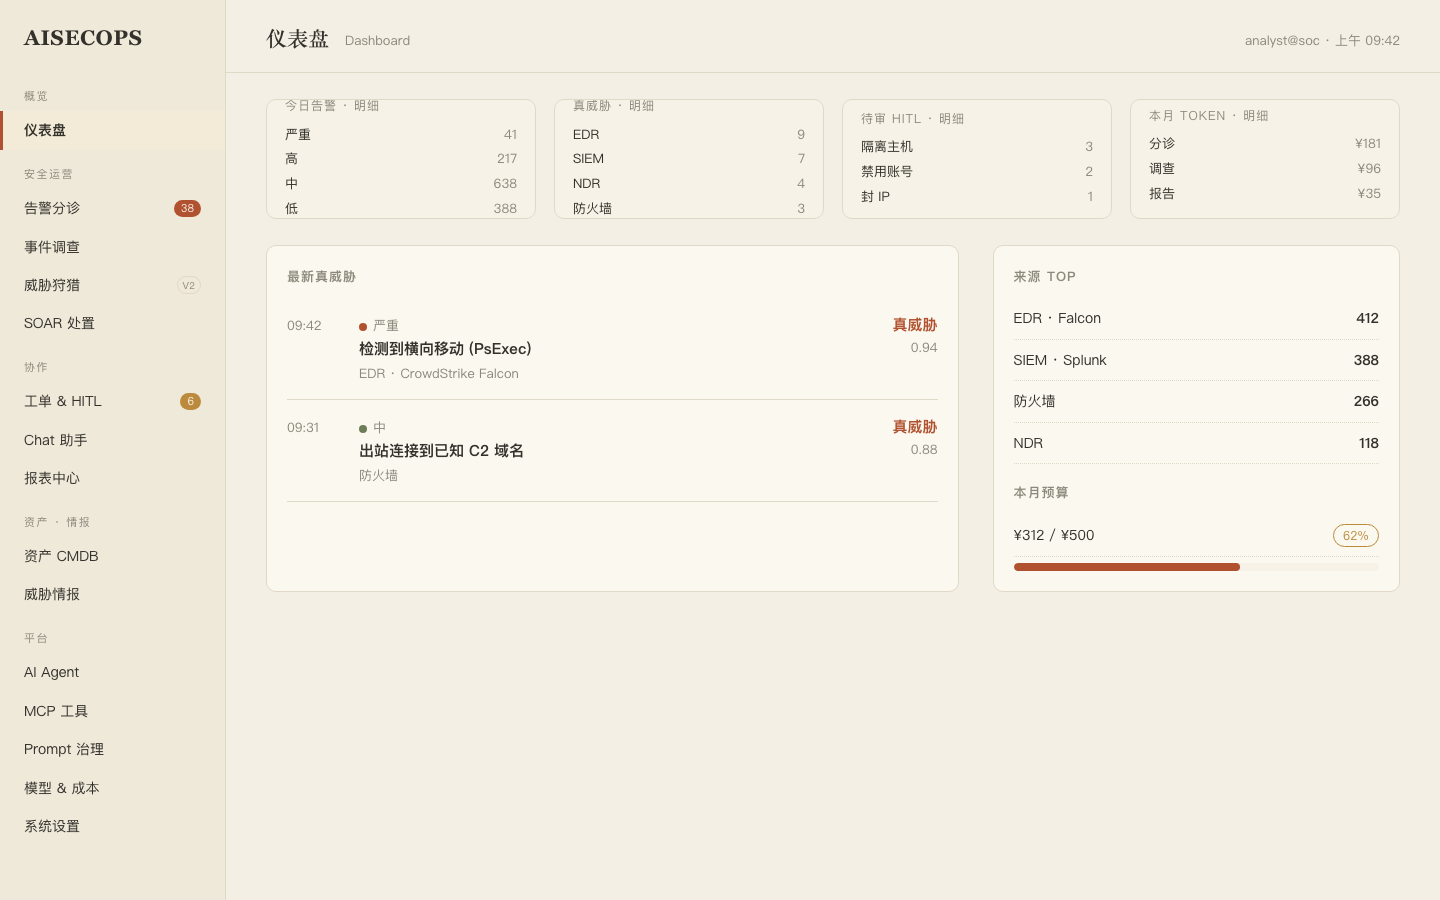
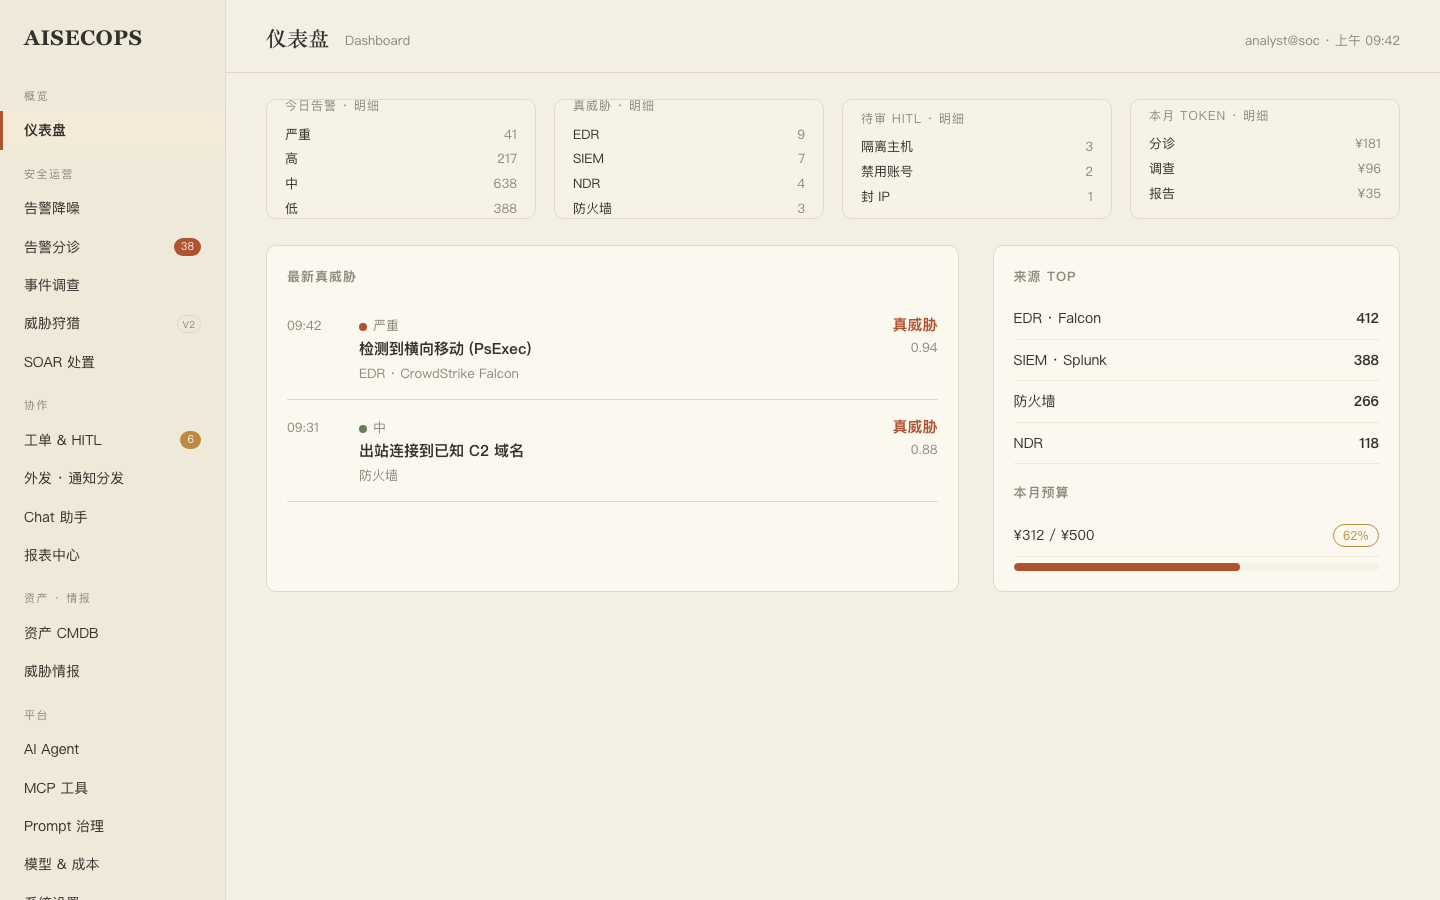
docs: 翻牌改悬停触发 + 补一组克制特效
- 翻牌卡改纯 CSS :hover 触发(移上翻面/移走自动翻回),非点击
- 新增特效: 数字滚动计数 / 进度条生长 / 列表卡片错峰淡入 /
  严重告警呼吸点(仅最高危) / 卡片悬停微抬 / 主按钮悬停柔光
- 同步更新设计规范 §3 动效规范,守住"摆脱 AI 味"(无弹跳/霓虹)

diff --git a/docs/design/mockups/5-calm-paper-app.html b/docs/design/mockups/5-calm-paper-app.html
@@ -26,9 +26,9 @@
   @keyframes fadeUp{from{opacity:0;transform:translateY(10px)}to{opacity:1;transform:none}}
   /* flip stat cards */
   .stats{display:grid;grid-template-columns:repeat(4,1fr);gap:18px;margin-bottom:26px}
-  .flip{perspective:1200px;height:120px;cursor:pointer}
+  .flip{perspective:1200px;height:120px}
   .flip .inner{position:relative;width:100%;height:100%;transition:transform .6s cubic-bezier(.4,.2,.2,1);transform-style:preserve-3d}
-  .flip.is-flipped .inner{transform:rotateY(180deg)}
+  .flip:hover .inner,.flip.is-flipped .inner{transform:rotateY(180deg)}
   .face{position:absolute;inset:0;backface-visibility:hidden;background:var(--paper);border:1px solid var(--line);border-radius:10px;padding:16px 18px;display:flex;flex-direction:column;justify-content:center}
   .face.back{transform:rotateY(180deg);background:var(--paper2)}
   .face .l{font-size:13px;color:var(--dim);margin-bottom:6px}
@@ -65,7 +65,18 @@
   .btn.go:hover{background:#9a4527}
   /* misc widgets */
   .bar{height:8px;background:var(--paper2);border-radius:5px;overflow:hidden;margin-top:6px}
-  .bar i{display:block;height:100%;background:var(--terra);border-radius:5px}
+  .bar i{display:block;height:100%;background:var(--terra);border-radius:5px;transition:width .95s cubic-bezier(.3,.1,.2,1)}
+  /* 特效：列表/卡片错峰淡入 */
+  .view .item,.view .ev,.view .flip{animation:fadeUp .5s both}
+  /* 特效：严重告警呼吸点（仅 d-crit，克制） */
+  .dotc.d-crit{animation:pulse 2.4s ease-out infinite}
+  @keyframes pulse{0%{box-shadow:0 0 0 0 rgba(176,81,47,.45)}70%,100%{box-shadow:0 0 0 5px rgba(176,81,47,0)}}
+  /* 特效：卡片悬停微抬 */
+  .card{transition:border-color .2s,transform .2s}
+  .card:hover{border-color:var(--clay);transform:translateY(-1px)}
+  /* 特效：主按钮悬停微光 */
+  .btn.go{transition:background .15s,transform .1s,box-shadow .2s}
+  .btn.go:hover{box-shadow:0 3px 12px rgba(176,81,47,.25)}
   .row2{display:flex;justify-content:space-between;padding:9px 0;border-bottom:1px dotted var(--line);font-size:14px}
   .pill{font-size:12px;padding:1px 9px;border-radius:20px;border:1px solid var(--line);color:var(--dim)}
   .pill.ok{color:var(--sage);border-color:var(--sage)} .pill.warn{color:var(--ochre);border-color:var(--ochre)} .pill.t{color:var(--terra);border-color:var(--terra)}
@@ -121,7 +132,7 @@
 <div id="toast"></div>
 <script>
 const flipCard=(l,n,cls,back)=>`<div class="flip"><div class="inner">
-  <div class="face"><span class="hint">点击翻面 ⤺</span><div class="l">${l}</div><div class="n ${cls}">${n}</div></div>
+  <div class="face"><span class="hint">悬停看明细 ⤺</span><div class="l">${l}</div><div class="n ${cls}">${n}</div></div>
   <div class="face back"><div class="bt">${l} · 明细</div>${back}</div></div></div>`;
 const brk=(a,b)=>`<div class="brk"><span>${a}</span><span>${b}</span></div>`;
 
@@ -292,13 +303,31 @@ function go(r){const R=ROUTES[r];if(!R)return;
   view.innerHTML=R.html();
   document.querySelectorAll('#nav a').forEach(a=>a.classList.toggle('on',a.dataset.r===r));
   bindView();}
+function countUp(el){
+  const m=el.textContent.trim().match(/^([^\d]*)([\d,]+)(.*)$/);if(!m)return;
+  const pre=m[1],suf=m[3],target=parseInt(m[2].replace(/,/g,''),10);if(isNaN(target))return;
+  const dur=900,t0=performance.now();
+  (function tick(t){let p=Math.min(1,(t-t0)/dur);p=1-Math.pow(1-p,3);
+    el.textContent=pre+Math.round(target*p).toLocaleString('en-US')+suf;
+    if(p<1)requestAnimationFrame(tick);})(t0);
+}
 function bindView(){
-  view.querySelectorAll('.flip').forEach(f=>f.onclick=()=>f.classList.toggle('is-flipped'));
+  // 数字滚动计数（仅正面）
+  view.querySelectorAll('.face:not(.back) .n').forEach(countUp);
+  // 进度条生长
+  view.querySelectorAll('.bar i').forEach(b=>{const w=b.style.width;b.style.width='0';
+    requestAnimationFrame(()=>requestAnimationFrame(()=>{b.style.width=w;}));});
+  // 列表错峰淡入
+  view.querySelectorAll('.flip').forEach((f,i)=>f.style.animationDelay=(i*80)+'ms');
+  view.querySelectorAll('.view .item, #alist .item').forEach((it,i)=>it.style.animationDelay=(i*70)+'ms');
+  view.querySelectorAll('.ev').forEach((e,i)=>e.style.animationDelay=(i*80)+'ms');
+  // 告警行点击联动详情
   const al=view.querySelector('#alist');
   if(al)al.querySelectorAll('.item').forEach(it=>it.onclick=()=>{
     al.querySelectorAll('.item').forEach(x=>x.classList.remove('sel'));it.classList.add('sel');
     const d=document.getElementById('detail');d.classList.add('swap');
-    setTimeout(()=>{d.innerHTML=detail(it.dataset.a);d.classList.remove('swap');},220);});
+    setTimeout(()=>{d.innerHTML=detail(it.dataset.a);d.classList.remove('swap');
+      d.querySelectorAll('.ev').forEach((e,i)=>e.style.animationDelay=(i*80)+'ms');},220);});
 }
 document.getElementById('nav').addEventListener('click',e=>{const a=e.target.closest('a[data-r]');if(a){e.preventDefault();go(a.dataset.r);}});
 let tt;function toast(m){const t=document.getElementById('toast');t.textContent=m;t.classList.add('show');clearTimeout(tt);tt=setTimeout(()=>t.classList.remove('show'),1900);}

diff --git a/docs/design/frontend-design-language.md b/docs/design/frontend-design-language.md
@@ -80,14 +80,19 @@
 
 | 动效 | 规格 | 用途 |
 |---|---|---|
-| **卡片翻牌** | `transform:rotateY(180deg)`；`.6s cubic-bezier(.4,.2,.2,1)`；`preserve-3d` + `backface-visibility:hidden` | 统计卡正面看数字，点击翻面看拆分明细 |
+| **卡片翻牌（悬停）** | `.flip:hover .inner{transform:rotateY(180deg)}`；`.6s cubic-bezier(.4,.2,.2,1)`；`preserve-3d` + `backface-visibility:hidden`。**鼠标移上翻面、移走自动翻回**（纯 CSS `:hover`，非点击） | 统计卡正面看数字，悬停看拆分明细 |
+| **数字滚动计数** | 进页/路由切换时，统计数字从 0 缓动到目标（`~0.9s` easeOutCubic，保留千分位与前后缀 `¥`/`%`） | 数据"活"起来，强化数字感 |
+| **进度条生长** | `.bar i` 宽度从 0 过渡到目标，`width .95s cubic-bezier(.3,.1,.2,1)` | 预算/降噪占比条 |
+| **列表/卡片错峰淡入** | `fadeUp .5s both` + 逐项 `animation-delay`（卡片 80ms 步进 / 列表行 70ms / 证据 80ms） | 内容入场有节奏，不"啪"地全出 |
 | **页面切换** | `fadeUp .34s ease`（opacity 0→1 + translateY 10px→0） | 菜单路由切换内容区 |
 | **详情交叉淡入** | `opacity .25s`，换内容前加 `.swap`（opacity:0），220ms 后替换 | 点不同告警行，右侧详情切换 |
+| **严重告警呼吸点** | 仅 `.d-crit`（严重/真威胁）：`pulse 2.4s` 赤陶色光环呼吸（box-shadow 扩散渐隐） | 把眼睛**只**引向最高危，克制不滥用 |
+| **卡片悬停微抬** | `.card:hover`：`translateY(-1px)` + 边框转 `clay`，`.2s` | 可交互暗示 |
 | **导航/行 hover** | `background .15s` | 悬停反馈 |
-| **按钮按下** | `transform:translateY(1px) .1s` | 点击反馈 |
+| **主按钮** | hover 加柔光 `box-shadow 0 3px 12px rgba(176,81,47,.25)`；按下 `translateY(1px) .1s` | 点击反馈 |
 | **Toast** | 底部居中，`.3s` 滑入淡入，1.9s 自停 | 操作结果提示 |
 
-> 原则：**单个动效 ≤ 0.6s**，缓动统一，不做弹跳/旋转炫技。`点击翻面` 提示文字与 `?flip=1` URL 参数仅供演示，正式版去掉。
+> 原则：**单个动效 ≤ 0.95s**，缓动统一，不做弹跳/旋转/霓虹炫技（那是 AI 味）。呼吸点只给最高危一处。`悬停看明细` 提示文字与 `?flip=1` URL 参数仅供演示，正式版去掉。
 
 ---
 
